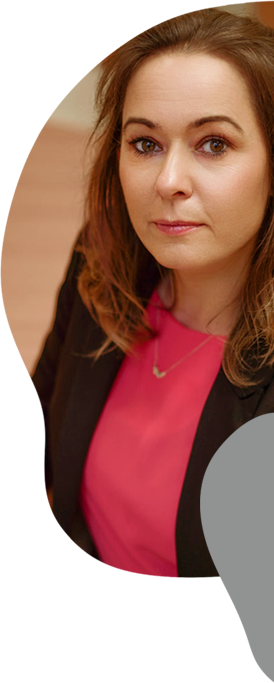
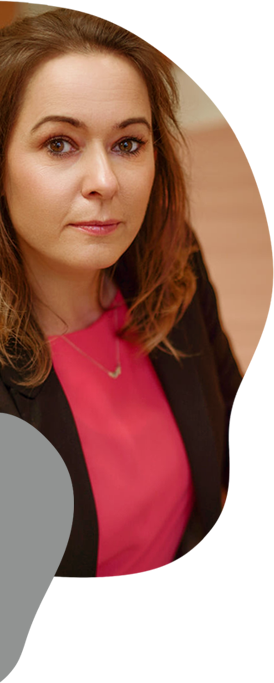
about and offer 0.3.6

diff --git a/src/components/pages/About.js b/src/components/pages/About.js
@@ -1,6 +1,7 @@
 import React from 'react'
 import TopBar from '../Nav/TopBar'
 
+import MobileAboutUp from './../../assets/temp/mobile-about-up.png'
 import AboutUp from './../../assets/temp/about-up.png'
 import MobileAboutDown from './../../assets/temp/mobile-about-down.png'
 import MobileAboutDecoration from './../../assets/temp/mobile-about-decoration.png'
@@ -15,14 +16,17 @@ function About() {
                 <div className="about__about-section-first">
                     <h1 className='about-section-first__title'>O MNIE</h1>
                     <div className="about-section-first__container">
+                        <div className="container__img">
+                            <img src={AboutUp} alt="Zdjęcie Natalii Zarańskiej"/>
+                        </div>
                         <div className="container__intro">
                             <h2 className='intro__header'>Cześć</h2>
                             <p className="intro__text"> Myślę, że zanim zaczniemy współpracę, chcesz się dowiedzieć kim jestem. W 2001r. zdobyłam tytuł mgr pedagogiki ze specjalizacją resocjalizacja i rozpoczęłam pracę jako przewodnik młodych ludzi w szkole. Był to czas niezwykły, kiedy mogłam rozwijać swoje pasje, współpracować, tworzyć projekty i zdobywać wykształcenie. Ukończyłam studia podyplomowe w zakresie doradztwa zawodowego, pomocy psychologicznej oraz psychologii pozytywnej. Mojej dzisiejszej drodze zawodowej kierunek wyznaczył coaching. Coachem zostałam w 2017r. </p>
                         </div>
-                        <div className="container-description">
+                        <div className="container__description">
                             <p className='description__text'>Ten przełomowy moment sprawił, że połączyłam całą dotychczasową wiedzę, aby uczyć się od najlepszych i stworzyć przestrzeń, w której także Ty będziesz budzić swoją świadomość. Zostałam także facylitatorem Job Craftingu, gdyż wiem, jak ważne jest poczucie sensu i zaangażowania w miejscu pracy.</p>
                             <div className="description__img">
-                                <img src={AboutUp} alt="Zdjęcie Natalii Zarańskiej"/>
+                                <img src={MobileAboutUp} alt="Zdjęcie Natalii Zarańskiej"/>
                             </div>
                         </div>
                         <div className="container__dot"></div>

diff --git a/src/App.css b/src/App.css
@@ -250,6 +250,9 @@ a {
   flex-direction: column;
   align-items: center;
 }
+.container__img{
+  display: none;
+}
 .container__intro{
   position: relative;
   z-index: -2;
@@ -264,7 +267,7 @@ a {
 .intro__text{
   padding: 0 20px 20px 20px;
 }
-.container-description{
+.container__description{
   display: flex;
 }
 .description__text, .about-section-second__mentor, .intro__text, .about-section-second__header, .buisness__text, .about-section-third__text-up, .about-section-third__text-down{
@@ -281,7 +284,7 @@ a {
   height: 368px;
   margin-top: -20px;
 }
-.container-description img{
+.container__description img{
   height: 100%;
 }
 .container__dot{
@@ -623,12 +626,31 @@ a {
     display: none
   }
 
+  /* ABOUT */
+
+  .about {
+    padding-top: var(--topbar-desktop);
+  }
+  .description__img{
+    display: none;
+  }
+  .container__img{
+    display: block;
+    width: 300px;
+    height: auto;
+  }
+  .container__img img{
+    width: 100%;
+  }
    /* CONTACT */
 
   .contact{
     padding-top: var(--topbar-desktop);
   }
+
+
 }
+
 
 @media (min-width:1050px){
 
